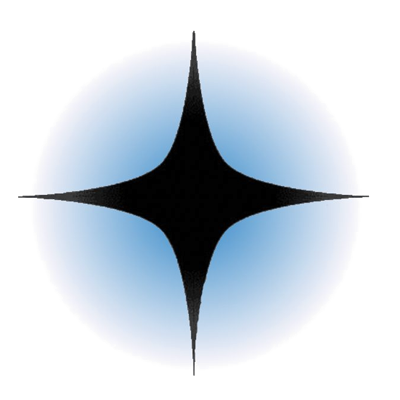
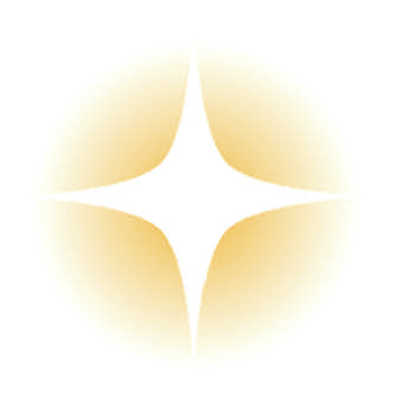
About page: negative star (white star, golden glow) blended behind the J
Claude-Session: https://claude.ai/code/session_018MR7m8TUkyZ6Tbesh47rki

diff --git a/site.css b/site.css
@@ -285,10 +285,10 @@ em{font-style:italic;}
   background:url("about-j.jpg") center 20% / cover no-repeat;
   -webkit-background-clip:text; background-clip:text;
 }
-.drop-star{position:relative; float:left; font-size:8em; line-height:.78; margin:.04em .14em -.06em .06em;}
+.drop-star{position:relative; float:left; font-size:8em; line-height:.78; margin:.08em .22em .02em .16em;}
 .drop-star::before{
   content:""; position:absolute;
-  left:50%; top:50%; width:.8em; height:.8em; transform:translate(-50%,-50%);
+  left:50%; top:50%; width:1.02em; height:1.02em; transform:translate(-50%,-50%);
   background:url("about-star.png") center / contain no-repeat;
 }
 .drop-star .mask-j{position:relative; display:block;}
@@ -575,6 +575,7 @@ em{font-style:italic;}
   .stat-grid{grid-template-columns:1fr 1fr;}
   .comp-grid{grid-template-columns:repeat(2,minmax(0,1fr));}
   .comp-grid--card{grid-template-columns:1fr;}
+  .drop-star{font-size:6.6em; margin:.08em .16em 0 .1em;}
   /* phone: back of the card shows only its top quarter, fading out */
   .comp-grid--card .frame:nth-child(2){aspect-ratio:1080/340; overflow:hidden;
     -webkit-mask-image:linear-gradient(to bottom,#000 35%,transparent);
